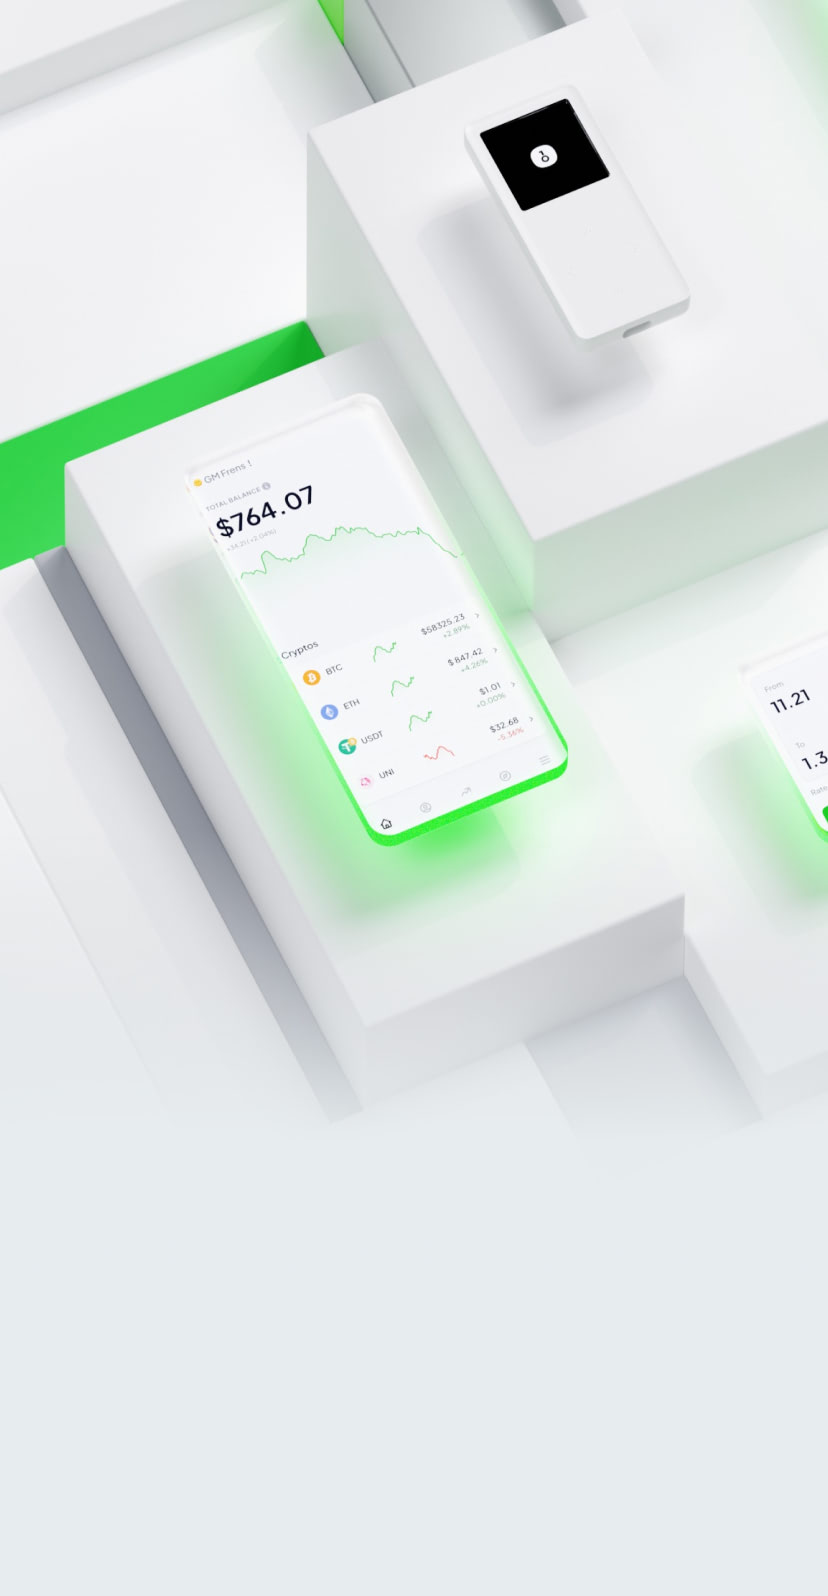
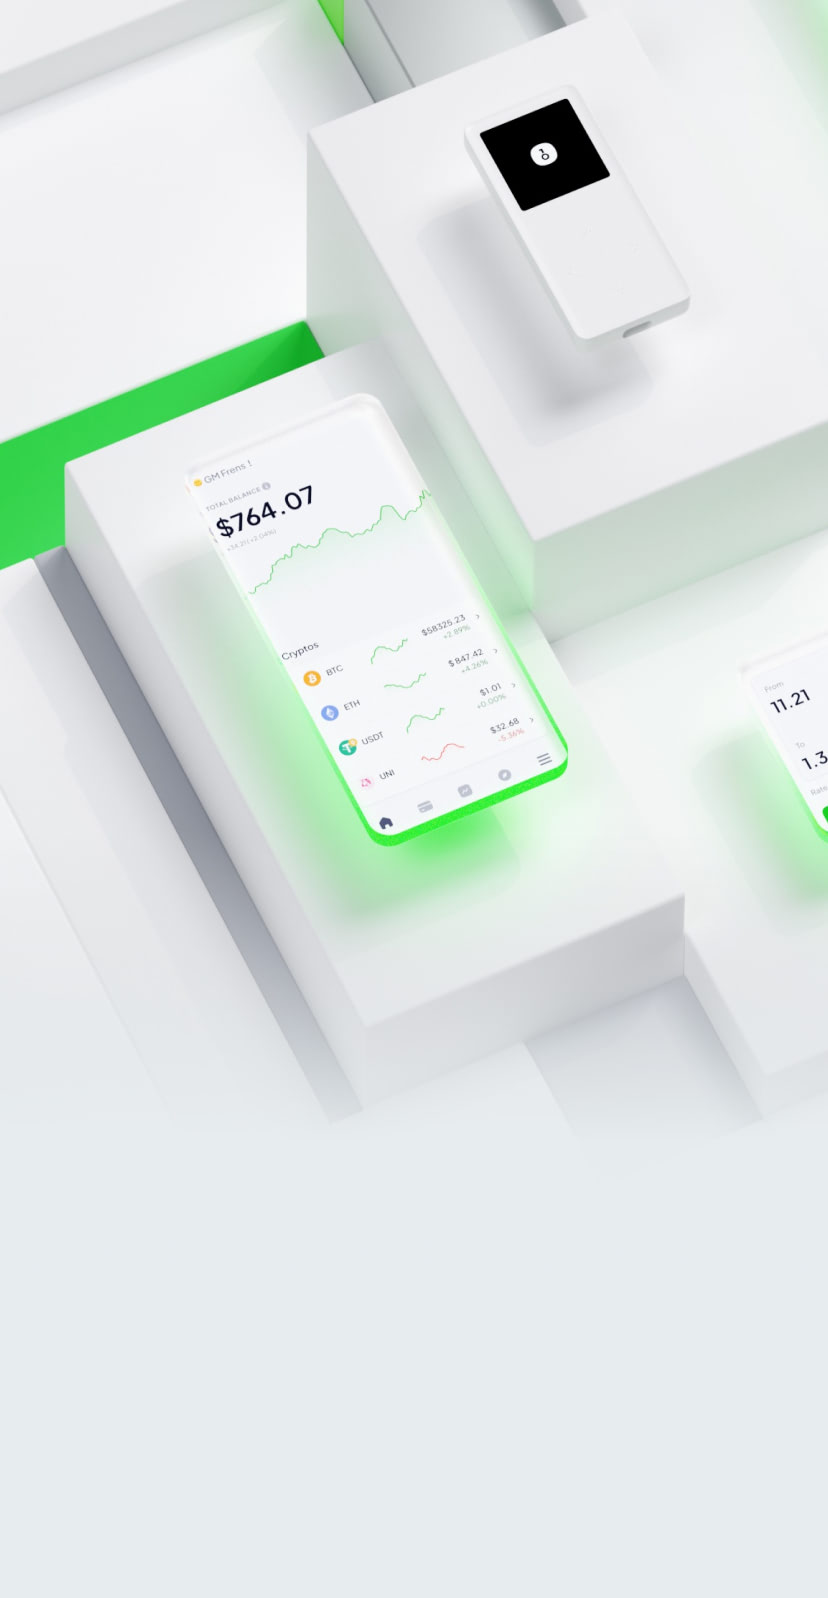
feat: video end image

diff --git a/src/components/pages/Home/components/Header/Background/Background.tsx b/src/components/pages/Home/components/Header/Background/Background.tsx
@@ -4,6 +4,7 @@ import { isBrowser } from '../../../../../../utils';
 import { Box, Img, VideoPlayer } from '../../../../../base';
 
 import defaultBackgroundImage from './images/background.jpg';
+import homeVideoEnd from './images/homeVideoEnd.jpg';
 import mobileBackground from './images/mobileBackground.jpg';
 
 export const Background: React.FC = () => {
@@ -15,6 +16,12 @@ export const Background: React.FC = () => {
     height: '100%',
     objectFit: 'cover',
   } as const;
+
+  const [isVideoEnd, setIsVideoEnd] = React.useState(false);
+
+  const onVideoEnded = () => {
+    setIsVideoEnd(true);
+  };
 
   return (
     <>
@@ -30,8 +37,23 @@ export const Background: React.FC = () => {
       <Box xs={{ display: 'none' }} m={{ display: 'block' }}>
         <Img src={defaultBackgroundImage} alt="background" css={style} />
         {isBrowser() && (
-          <VideoPlayer src="/video/home-hero.mp4" loop={false} style={style} />
+          <VideoPlayer
+            onEnded={onVideoEnded}
+            src="/video/home-hero.mp4"
+            loop={false}
+            style={style}
+          />
         )}
+
+        <Img
+          src={homeVideoEnd}
+          alt="background"
+          css={{
+            ...style,
+            transition: 'opacity 0.3s linear',
+            opacity: isVideoEnd ? 1 : 0,
+          }}
+        />
       </Box>
     </>
   );
